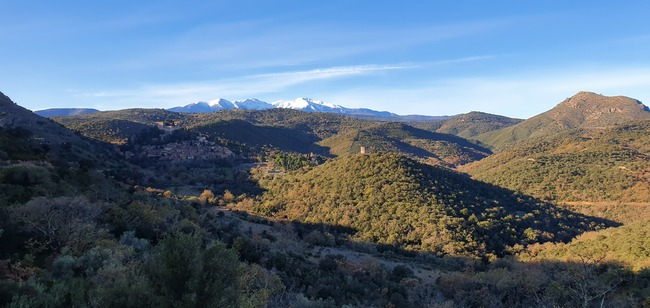
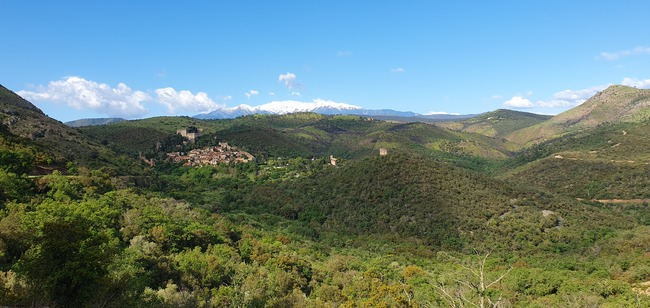
feat: updated pictures

diff --git a/footer-fr.js b/footer-fr.js
@@ -1,7 +1,7 @@
 // Afficher la partie contact :
 
 document.write("<div class='contact'><h2>Contact</h2><p>Jonathan Da Silva <br />31 770 Colomiers, France <br />Email : <a href='mailto:jonathan.da.silva.physics@gmail.com'>jonathan.da.silva.physics@gmail.com</a></p>");
-document.write("<p> <span class='end'>Derni&egrave;re mise &agrave; jour : 6 mai 2025</span></p>");
+document.write("<p> <span class='end'>Derni&egrave;re mise &agrave; jour : 8 mai 2025</span></p>");
 document.write("<p><a style='border-bottom:none' href='http://validator.w3.org/check?uri=jonathandasilvaphysics.github.io'><img style='border:0;width:39px;height:34px' title='Validation HTML5' src='images/html5-logo.png' alt='Validation HTML5'></a>");
 document.write("<a style='border-bottom:none' href='http://jigsaw.w3.org/css-validator/validator?uri=jonathandasilvaphysics.github.io'><img style='border:0;width:37px;height:34px' title='Validation CSS3' src='images/css3-logo.png' alt='Validation CSS3'></a> </p></div>");
 
@@ -135,7 +135,7 @@ text[124]= "Le village de Castelnou et son ch&acirc;teau";
 text[125]= "Rec de Corbera (en bas &agrave; droite) et les environs de Bouletern&egrave;re";
 text[126]= "Paysage au-dessus de Casefabre en direction du Prieur&eacute; de Serrabona et du massif du Canigou";
 text[127]= "La r&eacute;gion d'Ille-sur-T&ecirc;t vue &agrave; partir des Aspres";
-text[128]= "Paysage au-dessus de Saint-Michel-de-Llotes";
+text[128]= "Verdure au-dessus de Saint-Michel-de-Llotes";
 text[129]= "Les Aspres et la plaine du Roussillon vues pr&egrave;s de Caixas";
 text[130]= "Le massif du Canigou et ses alentours vus pr&egrave;s de Prunet-et-Belpuig";
 text[131]= "Vue de C&eacute;ret et du Vallespir &agrave; partir des Aspres";

diff --git a/footer-en.js b/footer-en.js
@@ -1,7 +1,7 @@
 // Display contact section :
 
 document.write("<div class='contact'><h2>Contact</h2><p>Jonathan Da Silva <br />31 770 Colomiers, France <br />Email : <a href='mailto:jonathan.da.silva.physics@gmail.com'>jonathan.da.silva.physics@gmail.com</a></p>");
-document.write("<p> <span class='end'>Last update : 6 may 2025</span></p>");
+document.write("<p> <span class='end'>Last update : 8 may 2025</span></p>");
 document.write("<p><a style='border-bottom:none' href='http://validator.w3.org/check?uri=jonathandasilvaphysics.github.io'><img style='border:0;width:39px;height:34px' title='HTML5 validation' src='images/html5-logo.png' alt='HTML5 validation'></a>");
 document.write("<a style='border-bottom:none' href='http://jigsaw.w3.org/css-validator/validator?uri=jonathandasilvaphysics.github.io'><img style='border:0;width:37px;height:34px' title='CSS3 validation' src='images/css3-logo.png' alt='CSS3 validation'></a> </p></div>");
 
@@ -135,7 +135,7 @@ text[124]= "The village of Castelnou and its castle";
 text[125]= "Rec de Corbera (bottom-right) and Bouletern&egrave;re's surroundings";
 text[126]= "Landscape above Casefabre towards Serrabone Priory and the Canigou massif";
 text[127]= "The area of Ille-sur-T&ecirc;t from the Aspres";
-text[128]= "Landscape above Saint-Michel-de-Llotes";
+text[128]= "Greenery above Saint-Michel-de-Llotes";
 text[129]= "Aspres and the Roussillon plain near Caixas";
 text[130]= "Canigou massif and its surroundings near Prunet-et-Belpuig";
 text[131]= "View of C&eacute;ret and the Vallespir from the Aspres";

diff --git a/coordinates.js b/coordinates.js
@@ -126,7 +126,7 @@ latitudeLongitude[124]= "42.621217,2.707632";
 latitudeLongitude[125]= "42.648788,2.589577";
 latitudeLongitude[126]= "42.616840,2.617149";
 latitudeLongitude[127]= "42.627426,2.618086";
-latitudeLongitude[128]= "42.643370,2.627449";
+latitudeLongitude[128]= "42.644468,2.627222";
 latitudeLongitude[129]= "42.609566,2.645374";
 latitudeLongitude[130]= "42.557883,2.655589";
 latitudeLongitude[131]= "42.561421,2.650381";
@@ -623,8 +623,8 @@ latitudeLongitude[621]= "42.936000,1.754200";
 latitudeLongitude[622]= "42.935756,1.754442";
 latitudeLongitude[623]= "42.935756,1.754442";
 latitudeLongitude[624]= "42.623713,2.786420";
-latitudeLongitude[625]= "42.625496,2.710975";
-latitudeLongitude[626]= "42.624674,2.711031";
+latitudeLongitude[625]= "42.625452,2.710991";
+latitudeLongitude[626]= "42.624702,2.711038";
 latitudeLongitude[627]= "42.617903,2.689682";
 latitudeLongitude[628]= "42.617912,2.689462";
 latitudeLongitude[629]= "42.604693,2.665523";

diff --git a/isLarge.js b/isLarge.js
@@ -126,7 +126,7 @@ isLarge[124]= false;
 isLarge[125]= true;
 isLarge[126]= true;
 isLarge[127]= false;
-isLarge[128]= false;
+isLarge[128]= true;
 isLarge[129]= false;
 isLarge[130]= true;
 isLarge[131]= false;
